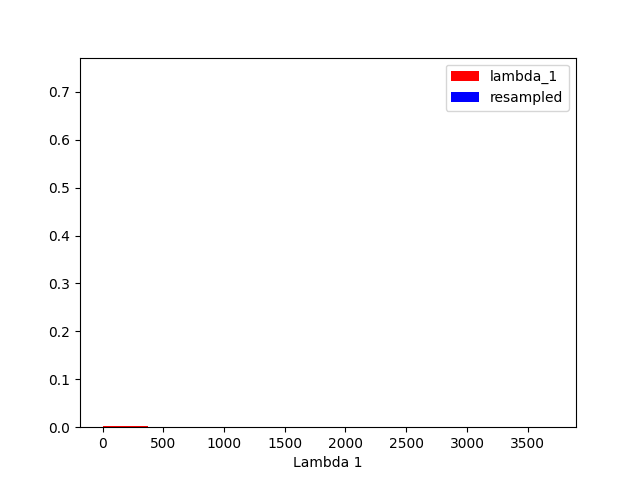
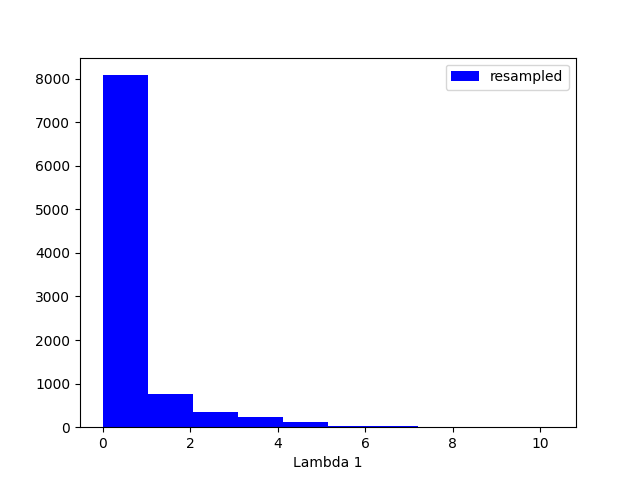
Method 1-2 lambda reflection test9

diff --git a/year3/lastStretch/lambdaReflectionStudy/reflectionTests.py b/year3/lastStretch/lambdaReflectionStudy/reflectionTests.py
@@ -29,8 +29,8 @@ resampledLambda1 = new_margPostData[:,0]
 plt.clf()
 #plt.hist(lambda_1,density=True,color='red',alpha=0.25,label="lambda_1")
 #plt.hist(resampledLambda1,density=True,color='blue',alpha=0.25,label="resampled")
-plt.hist(lambda_1,density=True,color='red',label="lambda_1")
-plt.hist(resampledLambda1,density=True,color='blue',label="resampled")
+#plt.hist(lambda_1,color='red',label="lambda_1")
+plt.hist(resampledLambda1,color='blue',label="resampled")
 plt.legend()
 plt.xlabel("Lambda 1")
 plt.savefig("method12.png")
